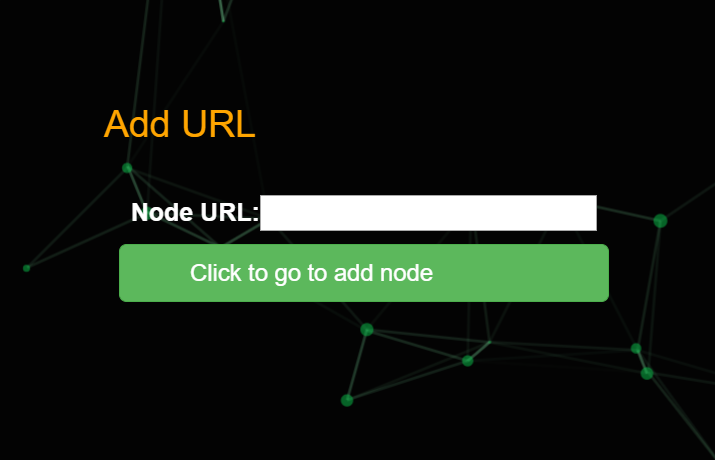
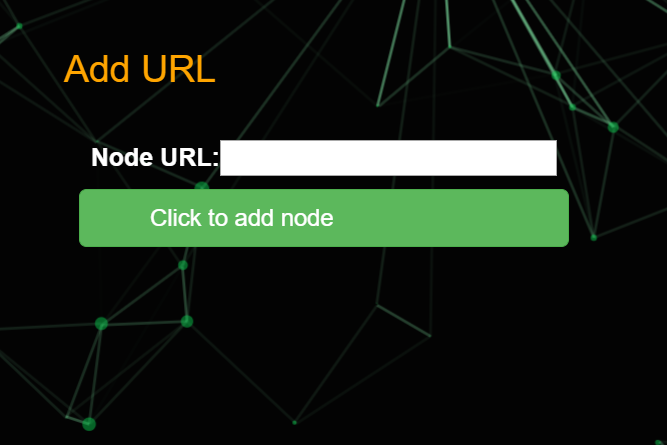
node added

diff --git a/bchain/templates/bchain/node.html b/bchain/templates/bchain/node.html
@@ -58,7 +58,7 @@ body{
          <div class="label">
              <p> Node URL:{{ form.url }}</p>
     </div>
-         <button class="btn btn-success btn-lg button"><i class="fas fa-database"></i> Click to go to add node</button>
+         <button class="btn btn-success btn-lg button"><i class="fas fa-database"></i> Click to  add node</button>
 
 </form>
 <script type="text/javascript">
